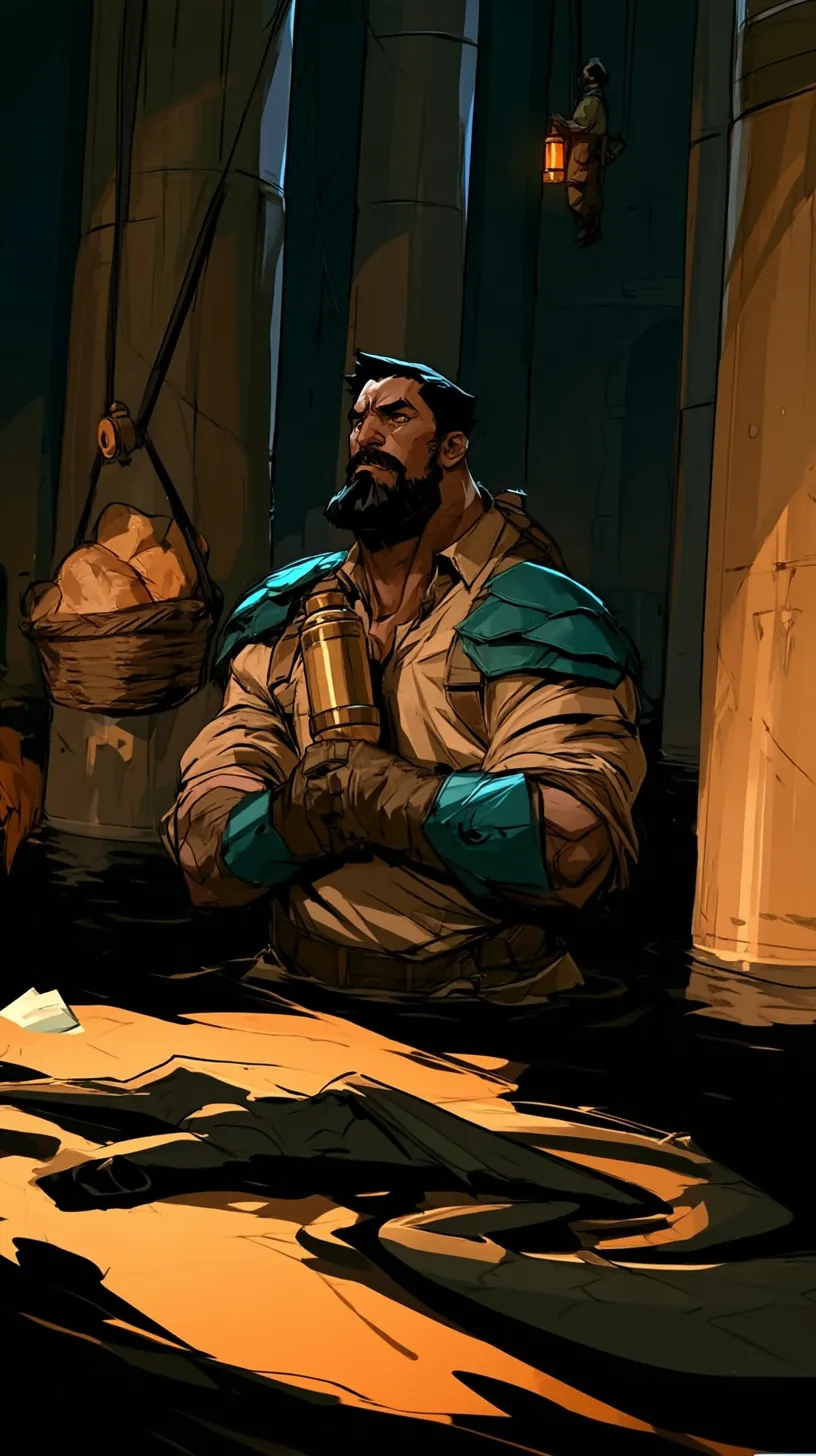
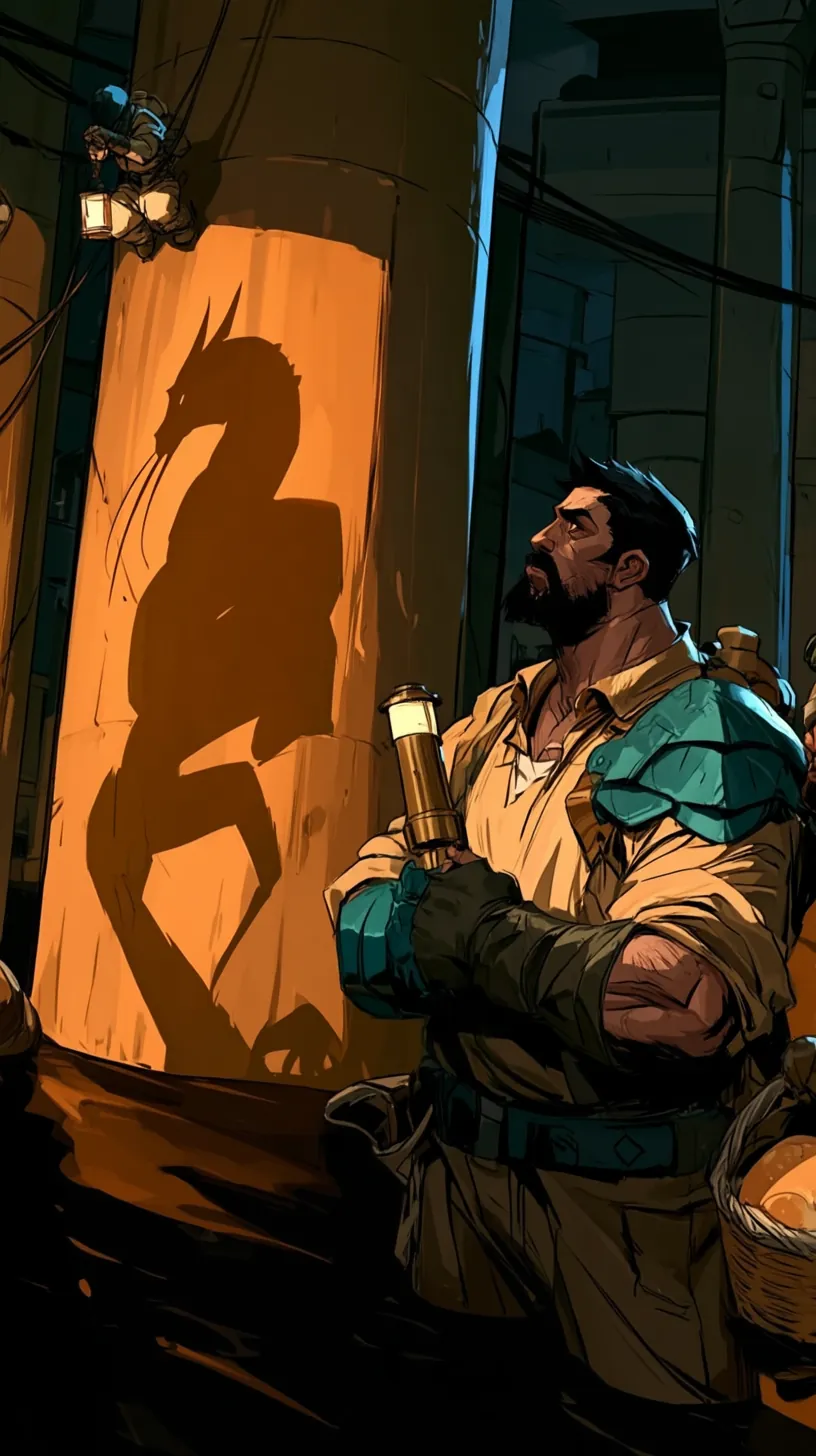
Récit de Doran : « Les paniers » refaite, l'ombre de dragon se lit sur le pilier ; son texte passe en bas pour ne pas la cacher
Claude-Session: https://claude.ai/code/session_01YVrYiVGq2ACvGBsdPcPVvT

diff --git a/scripts/visuel.ts b/scripts/visuel.ts
@@ -109,6 +109,7 @@ const SCENES: { nom: string; sauvegarde: 'district' | 'combat' | 'debut' | 'flec
   { nom: 'recit-doran-fiche', sauvegarde: 'district', faire: async (p) => { await ENTRER(p); await p.click('.onglet[data-action="porteurs"]'); await p.click('[data-action="porteur"][data-id="doran"] >> nth=0'); await p.waitForTimeout(300); await p.$eval('.fp-recit', (e) => e.scrollIntoView({ block: 'center' })); } },
   { nom: 'recit-ilka', sauvegarde: 'district', faire: async (p) => { await ENTRER(p); await p.click('.onglet[data-action="porteurs"]'); await p.click('[data-action="porteur"][data-id="ilka"] >> nth=0'); await p.click('[data-action="recit-lire"]'); await p.waitForTimeout(800); } },
   { nom: 'recit-doran', sauvegarde: 'district', faire: async (p) => { await ENTRER(p); await p.click('.onglet[data-action="porteurs"]'); await p.click('[data-action="porteur"][data-id="doran"] >> nth=0'); await p.click('[data-action="recit-lire"]'); await p.waitForTimeout(800); } },
+  { nom: 'recit-doran-7', sauvegarde: 'district', faire: async (p) => { await ENTRER(p); await p.click('.onglet[data-action="porteurs"]'); await p.click('[data-action="porteur"][data-id="doran"] >> nth=0'); await p.click('[data-action="recit-lire"]'); for (let i = 0; i < 24; i++) await p.click('.intro-bas .prim'); await p.waitForTimeout(800); } },
   { nom: 'recit-choix', sauvegarde: 'district', faire: async (p) => { await ENTRER(p); await p.click('.onglet[data-action="porteurs"]'); await p.click('[data-action="porteur"][data-id="ilka"] >> nth=0'); await p.click('[data-action="recit-lire"]'); for (let i = 0; i < 40; i++) { const fin = await p.$('[data-action="recit-garder"]'); if (fin) break; await p.click('.intro-bas .prim'); } await p.waitForTimeout(400); } },
   { nom: 'recit-vela', sauvegarde: 'district', faire: async (p) => { await ENTRER(p); await p.click('.onglet[data-action="porteurs"]'); await p.click('[data-action="porteur"][data-id="vela"] >> nth=0'); await p.click('[data-action="recit-lire"]'); await p.waitForTimeout(800); } },
   { nom: 'recit-vela-choix', sauvegarde: 'district', faire: async (p) => { await ENTRER(p); await p.click('.onglet[data-action="porteurs"]'); await p.click('[data-action="porteur"][data-id="vela"] >> nth=0'); await p.click('[data-action="recit-lire"]'); for (let i = 0; i < 80; i++) { const fin = await p.$('[data-action="recit-garder"]'); if (fin) break; await p.click('.intro-bas .prim'); } await p.waitForTimeout(400); } },

diff --git a/src/ui/recits.ts b/src/ui/recits.ts
@@ -108,7 +108,7 @@ const DORAN: Plan[] = [
     tr('Personne ne crie. Les Génés se regardent, et le soir même, ils descendent tous. Ils ne remontent pas.'),
     tr('La Compagnie ne peut envoyer personne les chercher : il n’y a qu’eux pour tenir là-dessous.'),
     tr('Ils arrêtent les pompes des quais des Hauts, et laissent l’eau y monter. Celles du district, ils les gardent en marche. Et plus une seule caisse ne remonte.')] }),
-  plan({ epoque: tr('Chapitre 3 · Quarante jours'), titre: tr('Les paniers'), annees: [2099, 2099], ambiance: 'nuit', camera: 'descend', texte: 'haut', fonds: [f('doran-07')], scene: () => nature(2), lignes: [
+  plan({ epoque: tr('Chapitre 3 · Quarante jours'), titre: tr('Les paniers'), annees: [2099, 2099], ambiance: 'nuit', camera: 'descend', fonds: [f('doran-07')], scene: () => nature(2), lignes: [
     tr('Pour parler avec la surface, chacun a une lampe de signal. Un éclat pour « tout va bien ». Trois pour « relancez ». Doran garde la sienne contre sa poitrine.'),
     tr('Le dixième jour, des paniers descendent au bout de câbles. Du pain, du poisson séché, des mots d’enfants. Le district a compris.'),
     tr('Le panier de Doran descend toujours au même endroit, de nuit, tenu par quelqu’un sans harnais. Il ne voit jamais son visage. Seulement, sur l’eau, à la lueur d’une lanterne, l’ombre d’un dragon.'),
